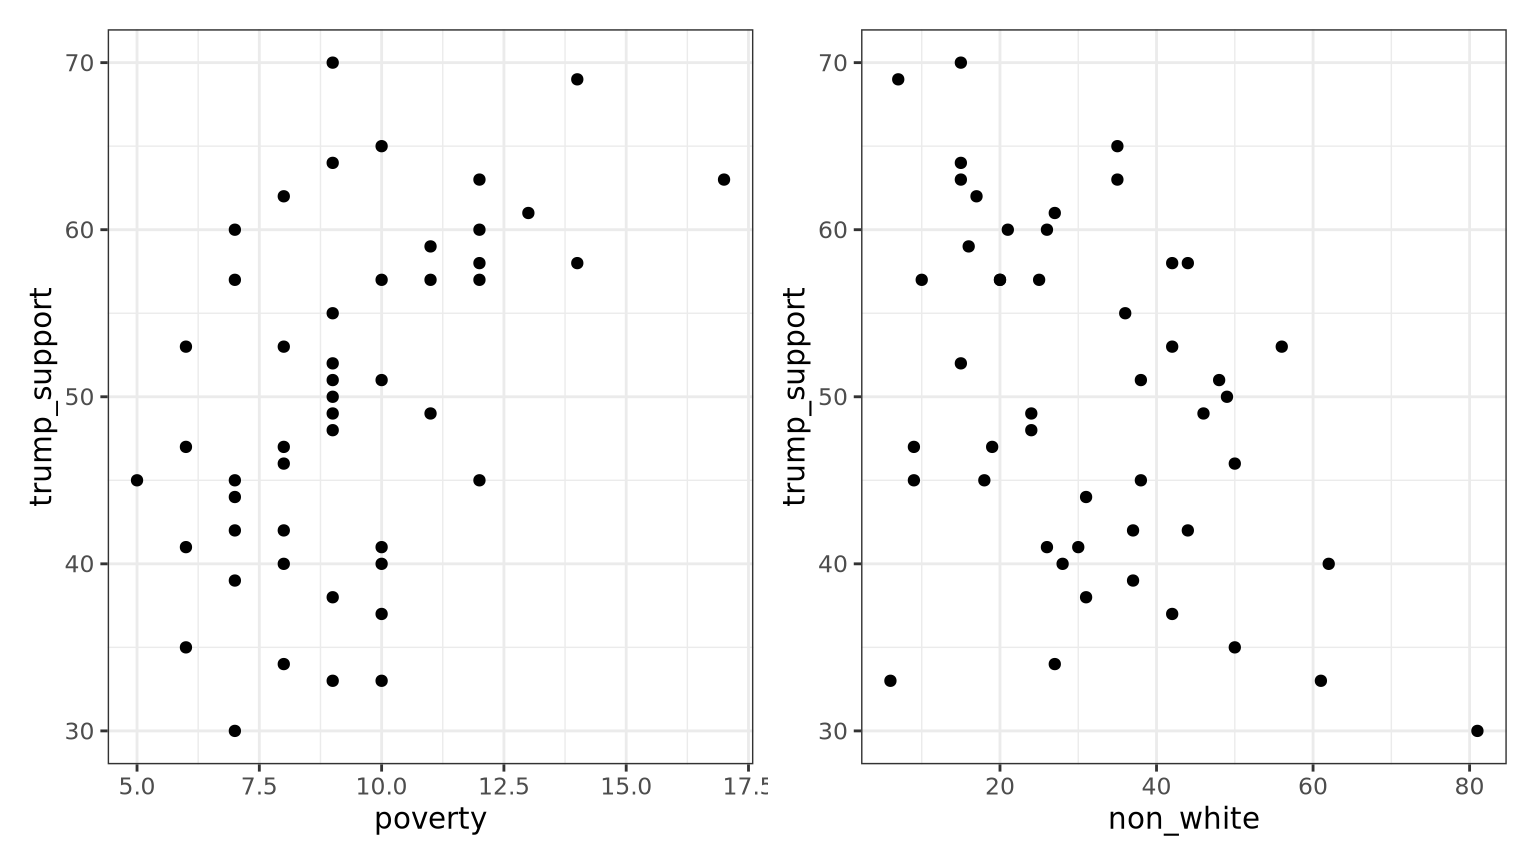
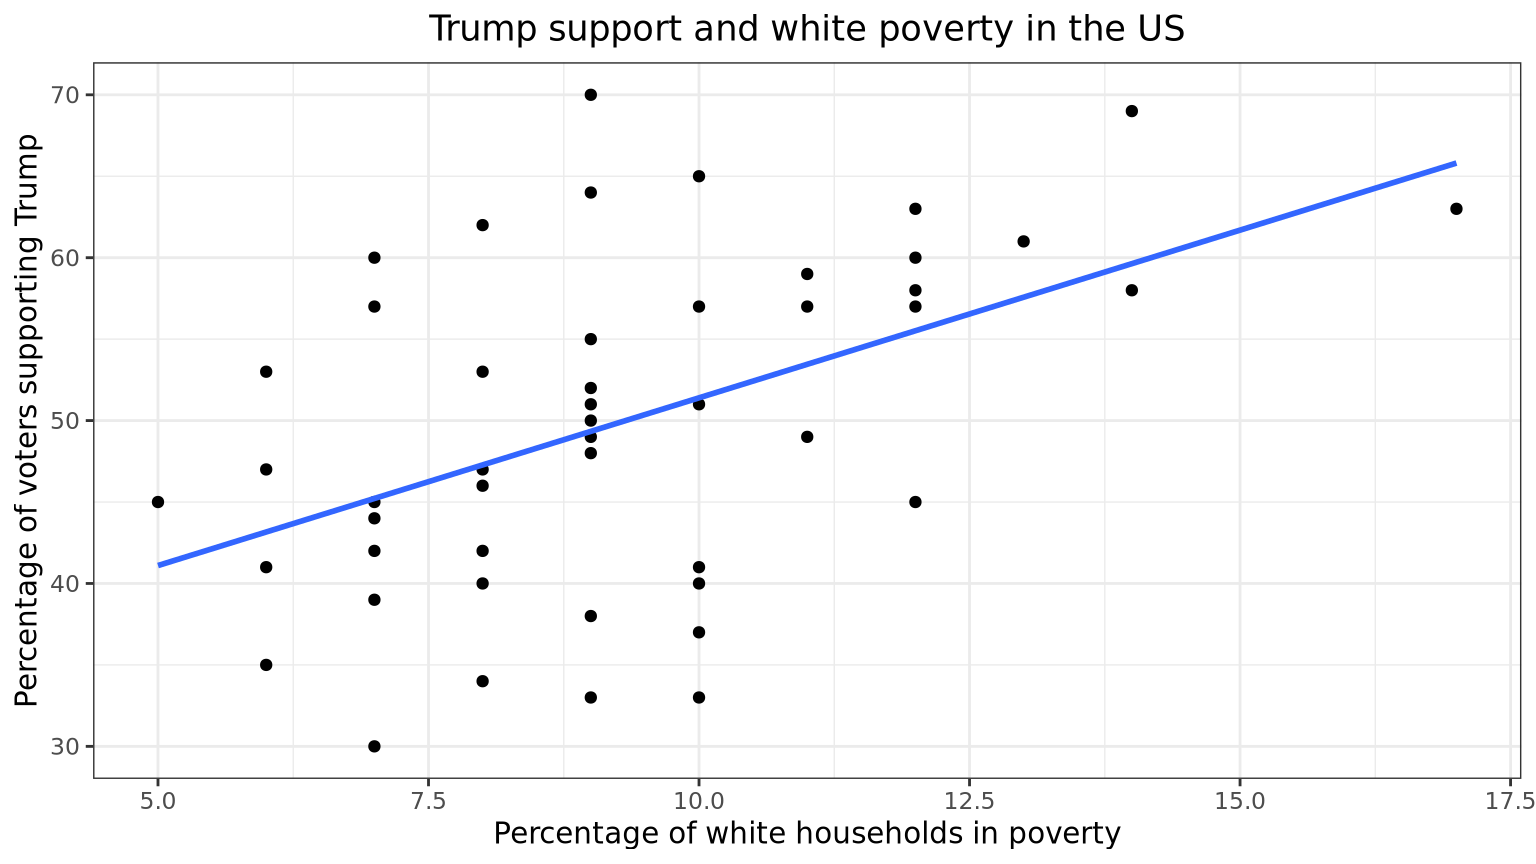
Answered #9 and #10.

diff --git a/PS04_source.html b/PS04_source.html
@@ -100,7 +100,7 @@ pre > code.sourceCode > span > a:first-child::before { text-decoration: underlin
     <div>
     <div class="quarto-title-meta-heading">Published</div>
     <div class="quarto-title-meta-contents">
-      <p class="date">Last modified on September 14, 2023 09:48:14 Eastern Daylight Time</p>
+      <p class="date">Last modified on September 14, 2023 10:22:54 Eastern Daylight Time</p>
     </div>
   </div>
   
@@ -876,10 +876,39 @@ Problem 9 Answers
 <div id="callout-26" class="callout-26-contents callout-collapse collapse show">
 <div class="callout-body-container callout-body">
 <div class="cell" data-layout-align="center">
-<div class="sourceCode cell-code" id="cb31"><pre class="sourceCode r code-with-copy"><code class="sourceCode r"><span id="cb31-1"><a href="#cb31-1" aria-hidden="true" tabindex="-1"></a><span class="co"># Type your code and comments inside the code chunk</span></span></code><button title="Copy to Clipboard" class="code-copy-button"><i class="bi"></i></button></pre></div>
+<div class="sourceCode cell-code" id="cb31"><pre class="sourceCode r code-with-copy"><code class="sourceCode r"><span id="cb31-1"><a href="#cb31-1" aria-hidden="true" tabindex="-1"></a><span class="fu">ggplot</span>(<span class="at">data =</span> trump, <span class="fu">aes</span>(<span class="at">y =</span> trump_support, <span class="at">x =</span> poverty)) <span class="sc">+</span> </span>
+<span id="cb31-2"><a href="#cb31-2" aria-hidden="true" tabindex="-1"></a>  <span class="fu">geom_point</span>() <span class="sc">+</span> </span>
+<span id="cb31-3"><a href="#cb31-3" aria-hidden="true" tabindex="-1"></a>  <span class="fu">geom_smooth</span>(<span class="at">method =</span> <span class="st">"lm"</span>, <span class="at">se =</span> <span class="cn">FALSE</span>) <span class="sc">+</span></span>
+<span id="cb31-4"><a href="#cb31-4" aria-hidden="true" tabindex="-1"></a>  <span class="fu">labs</span>(<span class="at">x =</span> <span class="st">"Percentage of white households in poverty"</span>, </span>
+<span id="cb31-5"><a href="#cb31-5" aria-hidden="true" tabindex="-1"></a>       <span class="at">y =</span> <span class="st">"Percentage of voters supporting Trump"</span>, </span>
+<span id="cb31-6"><a href="#cb31-6" aria-hidden="true" tabindex="-1"></a>       <span class="at">title =</span> <span class="st">"Trump support and white poverty in the US"</span>) <span class="sc">+</span></span>
+<span id="cb31-7"><a href="#cb31-7" aria-hidden="true" tabindex="-1"></a>  <span class="fu">theme_bw</span>() <span class="sc">+</span> </span>
+<span id="cb31-8"><a href="#cb31-8" aria-hidden="true" tabindex="-1"></a>  <span class="fu">theme</span>(<span class="at">plot.title =</span> <span class="fu">element_text</span>(<span class="at">hjust =</span> <span class="fl">0.5</span>))</span></code><button title="Copy to Clipboard" class="code-copy-button"><i class="bi"></i></button></pre></div>
+<div class="cell-output-display">
+<div class="quarto-figure quarto-figure-center">
+<figure class="figure">
+<p><img src="PS04_source_files/figure-html/unnamed-chunk-17-1.png" class="img-fluid figure-img" width="768"></p>
+</figure>
+</div>
+</div>
+<div class="sourceCode cell-code" id="cb32"><pre class="sourceCode r code-with-copy"><code class="sourceCode r"><span id="cb32-1"><a href="#cb32-1" aria-hidden="true" tabindex="-1"></a><span class="fu">ggplot</span>(<span class="at">data =</span> trump, <span class="fu">aes</span>(<span class="at">y =</span> trump_support, <span class="at">x =</span> non_white)) <span class="sc">+</span> </span>
+<span id="cb32-2"><a href="#cb32-2" aria-hidden="true" tabindex="-1"></a>  <span class="fu">geom_point</span>() <span class="sc">+</span> </span>
+<span id="cb32-3"><a href="#cb32-3" aria-hidden="true" tabindex="-1"></a>  <span class="fu">geom_smooth</span>(<span class="at">method =</span> <span class="st">"lm"</span>, <span class="at">se =</span> <span class="cn">FALSE</span>) <span class="sc">+</span></span>
+<span id="cb32-4"><a href="#cb32-4" aria-hidden="true" tabindex="-1"></a>  <span class="fu">labs</span>(<span class="at">x =</span> <span class="st">"Percentage of non-white voters"</span>, </span>
+<span id="cb32-5"><a href="#cb32-5" aria-hidden="true" tabindex="-1"></a>       <span class="at">y =</span> <span class="st">"Percentage of voters supporting Trump"</span>, </span>
+<span id="cb32-6"><a href="#cb32-6" aria-hidden="true" tabindex="-1"></a>       <span class="at">title =</span> <span class="st">"Trump support and non-white voters in the US"</span>) <span class="sc">+</span></span>
+<span id="cb32-7"><a href="#cb32-7" aria-hidden="true" tabindex="-1"></a>  <span class="fu">theme_bw</span>() <span class="sc">+</span> </span>
+<span id="cb32-8"><a href="#cb32-8" aria-hidden="true" tabindex="-1"></a>  <span class="fu">theme</span>(<span class="at">plot.title =</span> <span class="fu">element_text</span>(<span class="at">hjust =</span> <span class="fl">0.5</span>))</span></code><button title="Copy to Clipboard" class="code-copy-button"><i class="bi"></i></button></pre></div>
+<div class="cell-output-display">
+<div class="quarto-figure quarto-figure-center">
+<figure class="figure">
+<p><img src="PS04_source_files/figure-html/unnamed-chunk-17-2.png" class="img-fluid figure-img" width="768"></p>
+</figure>
+</div>
+</div>
 </div>
 <ul>
-<li>Delete this and put your text answer here.</li>
+<li>Based on the evidence above and used in previous questions, the better explanatory variable of Trump support is the <code>poverty</code> variable.</li>
 </ul>
 </div>
 </div>
@@ -913,14 +942,33 @@ Problem 10 Answers
 <div id="callout-28" class="callout-28-contents callout-collapse collapse show">
 <div class="callout-body-container callout-body">
 <div class="cell" data-layout-align="center">
-<div class="sourceCode cell-code" id="cb32"><pre class="sourceCode r code-with-copy"><code class="sourceCode r"><span id="cb32-1"><a href="#cb32-1" aria-hidden="true" tabindex="-1"></a><span class="co"># Type your code and comments inside the code chunk</span></span></code><button title="Copy to Clipboard" class="code-copy-button"><i class="bi"></i></button></pre></div>
+<div class="sourceCode cell-code" id="cb33"><pre class="sourceCode r code-with-copy"><code class="sourceCode r"><span id="cb33-1"><a href="#cb33-1" aria-hidden="true" tabindex="-1"></a><span class="fu">ggplot</span>(<span class="at">data =</span> trump, <span class="fu">aes</span>(<span class="at">y =</span> trump_support, <span class="at">x =</span> non_white)) <span class="sc">+</span> </span>
+<span id="cb33-2"><a href="#cb33-2" aria-hidden="true" tabindex="-1"></a>  <span class="fu">geom_point</span>() <span class="sc">+</span> </span>
+<span id="cb33-3"><a href="#cb33-3" aria-hidden="true" tabindex="-1"></a>  <span class="fu">geom_smooth</span>(<span class="at">method =</span> <span class="st">"lm"</span>, <span class="at">se =</span> <span class="cn">FALSE</span>) <span class="sc">+</span></span>
+<span id="cb33-4"><a href="#cb33-4" aria-hidden="true" tabindex="-1"></a>  <span class="fu">labs</span>(<span class="at">x =</span> <span class="st">"Percentage of non-white voters"</span>, </span>
+<span id="cb33-5"><a href="#cb33-5" aria-hidden="true" tabindex="-1"></a>       <span class="at">y =</span> <span class="st">"Percentage of voters supporting Trump"</span>, </span>
+<span id="cb33-6"><a href="#cb33-6" aria-hidden="true" tabindex="-1"></a>       <span class="at">title =</span> <span class="st">"Trump support and non-white voters in the US"</span>) <span class="sc">+</span></span>
+<span id="cb33-7"><a href="#cb33-7" aria-hidden="true" tabindex="-1"></a>  <span class="fu">theme_bw</span>() <span class="sc">+</span> </span>
+<span id="cb33-8"><a href="#cb33-8" aria-hidden="true" tabindex="-1"></a>  <span class="fu">theme</span>(<span class="at">plot.title =</span> <span class="fu">element_text</span>(<span class="at">hjust =</span> <span class="fl">0.5</span>))</span></code><button title="Copy to Clipboard" class="code-copy-button"><i class="bi"></i></button></pre></div>
+<div class="cell-output-display">
+<div class="quarto-figure quarto-figure-center">
+<figure class="figure">
+<p><img src="PS04_source_files/figure-html/unnamed-chunk-18-1.png" class="img-fluid figure-img" width="768"></p>
+</figure>
 </div>
-<p><strong>A.</strong> Delete this and put your text answer here.</p>
+</div>
+</div>
+<p><strong>A.</strong> If Representative Ocasio-Cortez saw the regression line <code>nw_mod</code> without seeing any of the data points, her prediction of Trump support for a region in which 61% of people identify as non-white would be around 43%, give or take.</p>
 <div class="cell" data-layout-align="center">
-<div class="sourceCode cell-code" id="cb33"><pre class="sourceCode r code-with-copy"><code class="sourceCode r"><span id="cb33-1"><a href="#cb33-1" aria-hidden="true" tabindex="-1"></a><span class="co"># Type your code and comments inside the code chunk</span></span></code><button title="Copy to Clipboard" class="code-copy-button"><i class="bi"></i></button></pre></div>
+<div class="sourceCode cell-code" id="cb34"><pre class="sourceCode r code-with-copy"><code class="sourceCode r"><span id="cb34-1"><a href="#cb34-1" aria-hidden="true" tabindex="-1"></a><span class="fu">predict</span>(nw_mod, <span class="at">newdata =</span> <span class="fu">data.frame</span>(<span class="at">non_white =</span> <span class="dv">61</span>))</span></code><button title="Copy to Clipboard" class="code-copy-button"><i class="bi"></i></button></pre></div>
+<div class="cell-output cell-output-stdout">
+<pre><code>       1 
+41.91197 </code></pre>
 </div>
-<p><strong>B.</strong> Delete this and put your text answer here.</p>
-<p><strong>C.</strong> Delete this and put your text answer here.</p>
+</div>
+<p><strong>B.</strong> Her prediction given the regression line would be a small overestimation by only about 1% considering the prediction model created. Using this numerical expression, the predicted value would be 41.91%</p>
+<p><span class="math display">\[\text{residual} = y - \hat{y}\]</span></p>
+<p><strong>C.</strong> Using the residual, the predicted value using the regression line is about 43% and the value found using the data points is about 34% given that the population of non-white voters is 61%. So, the residual is -9.</p>
 </div>
 </div>
 </div>
@@ -969,7 +1017,7 @@ Tip
 </div>
 </div>
 <div class="cell" data-layout-align="center">
-<div class="sourceCode cell-code" id="cb34"><pre class="sourceCode r code-with-copy"><code class="sourceCode r"><span id="cb34-1"><a href="#cb34-1" aria-hidden="true" tabindex="-1"></a><span class="fu">sessionInfo</span>()</span></code><button title="Copy to Clipboard" class="code-copy-button"><i class="bi"></i></button></pre></div>
+<div class="sourceCode cell-code" id="cb36"><pre class="sourceCode r code-with-copy"><code class="sourceCode r"><span id="cb36-1"><a href="#cb36-1" aria-hidden="true" tabindex="-1"></a><span class="fu">sessionInfo</span>()</span></code><button title="Copy to Clipboard" class="code-copy-button"><i class="bi"></i></button></pre></div>
 <div class="cell-output cell-output-stdout">
 <pre><code>R version 4.2.3 (2023-03-15)
 Platform: x86_64-pc-linux-gnu (64-bit)
